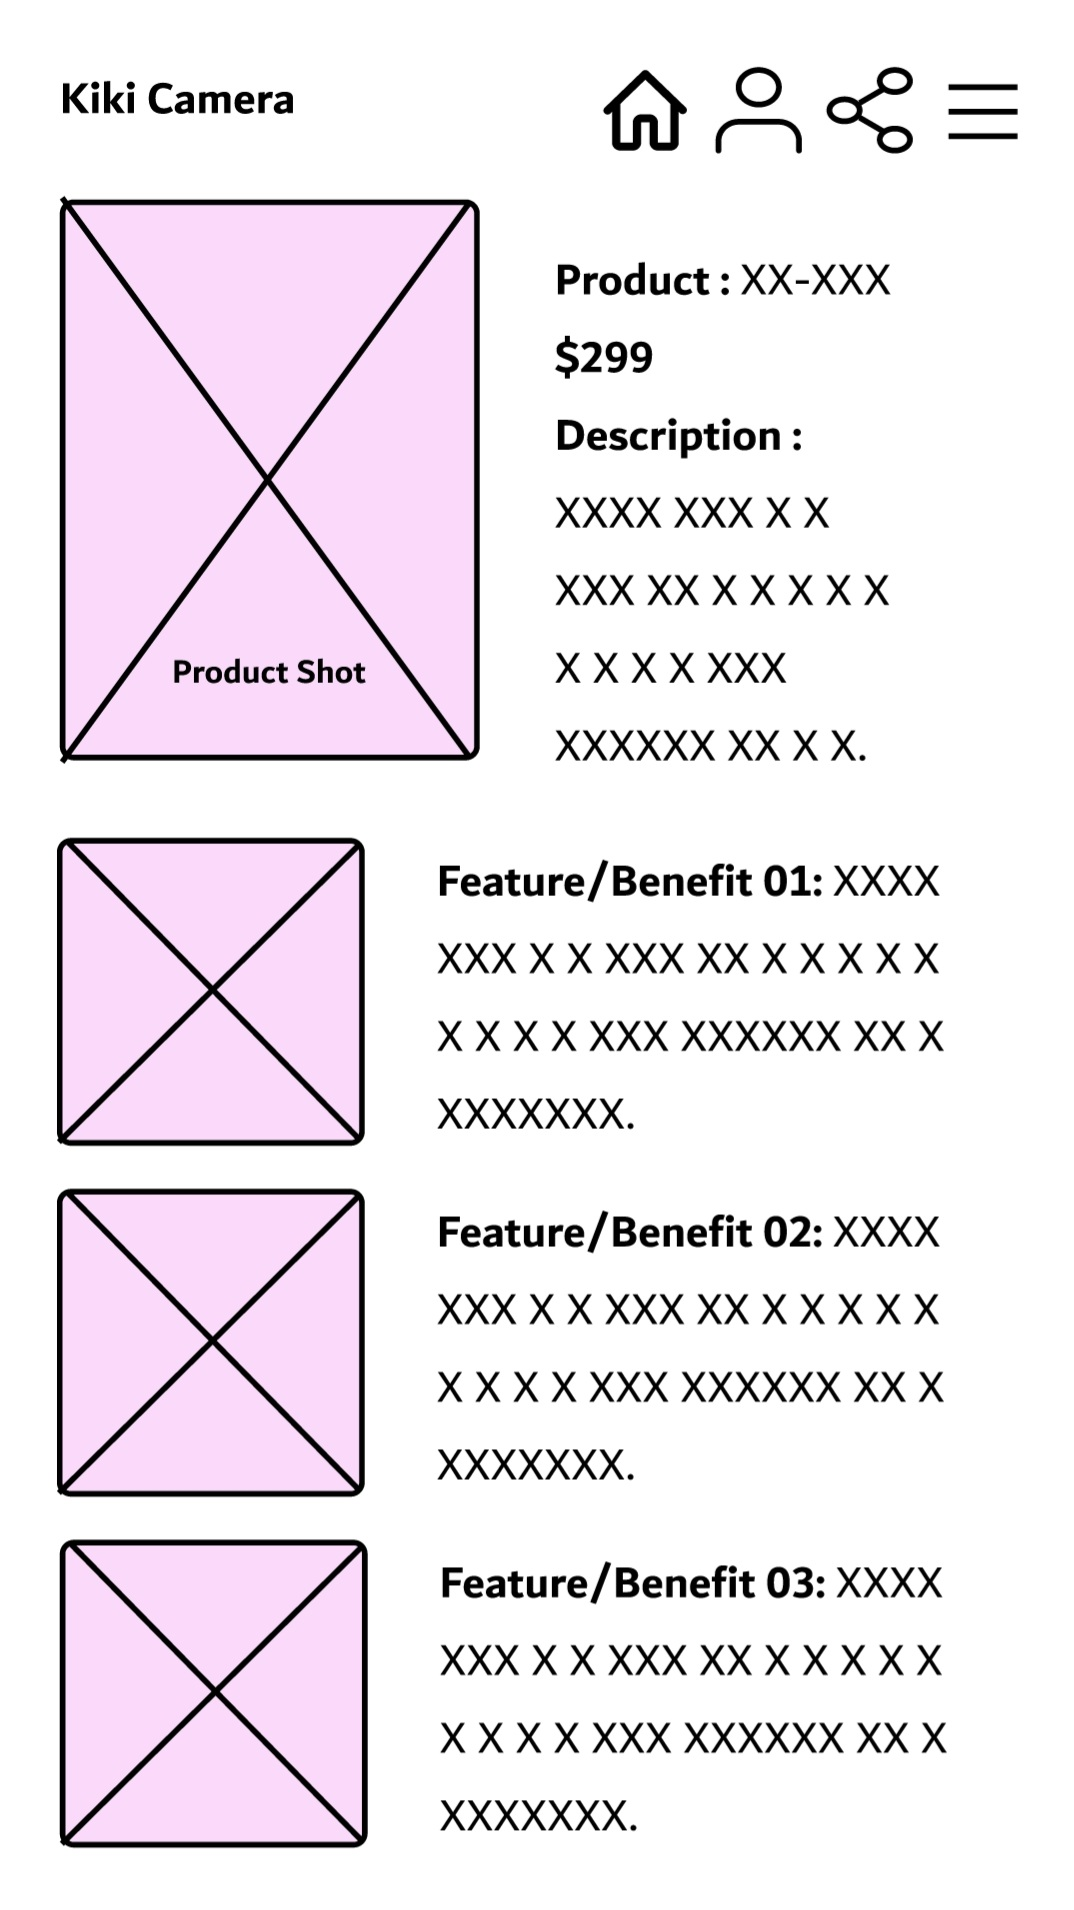
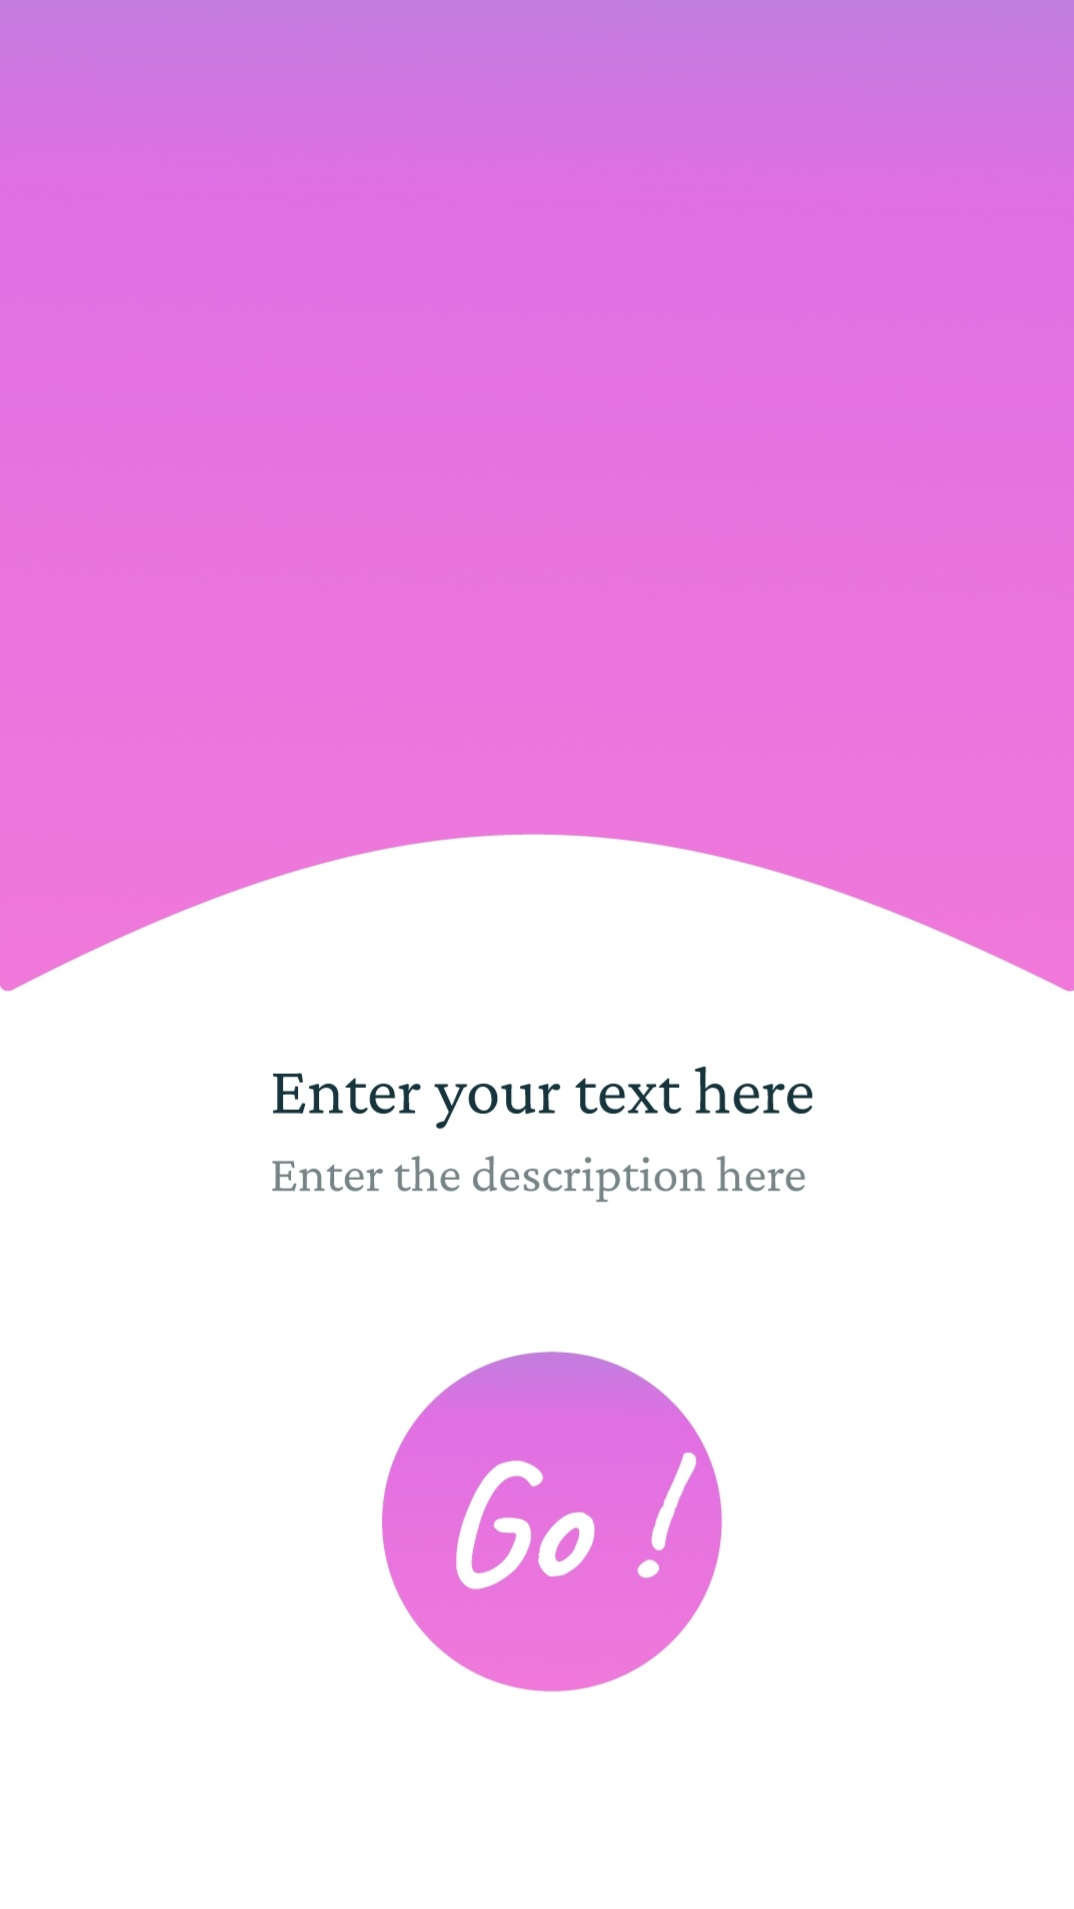
Update portfolio files

diff --git a/index.html b/index.html
@@ -251,7 +251,7 @@
                     <a href="project.html?id=donation-app" class="project-card" data-category="app"
                         style="text-decoration: none; color: inherit; display: block;">
                         <div class="project-img">
-                            <img src="images/noor.jpg" alt="Donation App">
+                            <img src="images/card_1.png" alt="Donation App">
                             <div class="project-overlay">
                                 <span class="social-btn"><i class="fas fa-eye"></i></span>
                             </div>
@@ -268,7 +268,7 @@
                     <a href="project.html?id=ui-projects" class="project-card" data-category="ui"
                         style="text-decoration: none; color: inherit; display: block;">
                         <div class="project-img">
-                            <img src="images/ui.jpg" alt="Learning Designs">
+                            <img src="images/card_2.png" alt="Learning Designs">
                             <div class="project-overlay">
                                 <span class="social-btn"><i class="fas fa-eye"></i></span>
                             </div>
@@ -283,7 +283,7 @@
                     <a href="project.html?id=mini" class="project-card" data-category="app"
                         style="text-decoration: none; color: inherit; display: block;">
                         <div class="project-img">
-                            <img src="images/flutte.jpg" alt="Mini Flutter Apps">
+                            <img src="images/card_3.png" alt="Mini Flutter Apps">
                             <div class="project-overlay">
                                 <span class="social-btn"><i class="fas fa-eye"></i></span>
                             </div>
@@ -298,7 +298,7 @@
                     <a href="project.html?id=ui-internship" class="project-card" data-category="ui"
                         style="text-decoration: none; color: inherit; display: block;">
                         <div class="project-img">
-                            <img src="images/intern.jpg" alt="UI/UX Internship">
+                            <img src="images/card_4.png" alt="UI/UX Internship">
                             <div class="project-overlay">
                                 <span class="social-btn"><i class="fas fa-eye"></i></span>
                             </div>

diff --git a/style.css b/style.css
@@ -114,13 +114,13 @@ body {
 
 .profile-section {
     text-align: center;
-    margin-bottom: 2rem;
+    margin-bottom: 1rem;
     position: relative;
     width: 100%;
 }
 
 .info-toggle {
-    margin-top: 1.5rem;
+    margin-top: 1rem;
     background: rgba(255, 255, 255, 0.05);
     border: 1px solid rgba(255, 255, 255, 0.1);
     color: var(--primary-color);
@@ -191,7 +191,7 @@ body {
     padding: 0.5rem 1rem;
     border-radius: 20px;
     display: inline-block;
-    margin-bottom: 1.5rem;
+    margin-bottom: 1rem;
 }
 
 .contact-info {
@@ -592,8 +592,8 @@ body {
 
 .portfolio-grid {
     display: grid;
-    grid-template-columns: repeat(auto-fill, minmax(220px, 1fr));
-    gap: 2rem;
+    grid-template-columns: repeat(auto-fill, minmax(240px, 1fr));
+    gap: 1.5rem;
 }
 
 .project-card {
@@ -613,21 +613,30 @@ body {
 
 
 .project-img {
-    height: 200px;
+    height: 180px;
     width: 100%;
     overflow: hidden;
     position: relative;
+    background-color: var(--card-bg);
+    /* Ensure background blends */
 }
+
+/* 
+.project-thumb-icon styles removed
+*/
 
 .project-img img {
     width: 100%;
     height: 100%;
-    object-fit: cover;
+    object-fit: contain;
+    /* Don't stretch, keep aspect ratio */
     object-position: center;
+    padding: 1.2rem;
+    /* Add padding so it doesn't take all space */
     transition: transform 0.5s ease;
+    -webkit-mask-image: radial-gradient(circle, black 50%, transparent 100%);
+    mask-image: radial-gradient(circle, black 50%, transparent 100%);
 }
-
-
 
 .project-card:hover .project-img img {
     transform: scale(1.1);

diff --git a/project.html b/project.html
@@ -98,9 +98,9 @@
                 images: [
                     'images/ui_1.jpg',
                     'images/ui_2.jpg',
-                    'images/ui_8.png',
-                    'images/ui_7.png',
-                    'images/ui_3.jpg',
+                    'images/ui_3.png',
+                    'images/ui_4.png',
+                    'images/ui_5.jpg',
 
                 ],
                 description: 'These wireframes and early UI designs were created during my first UI/UX design course. The goal of these projects was to understand core design fundamentals such as layout, spacing, wireframing, prototyping, basic animations, moodboarding, and working with components and variants.',
